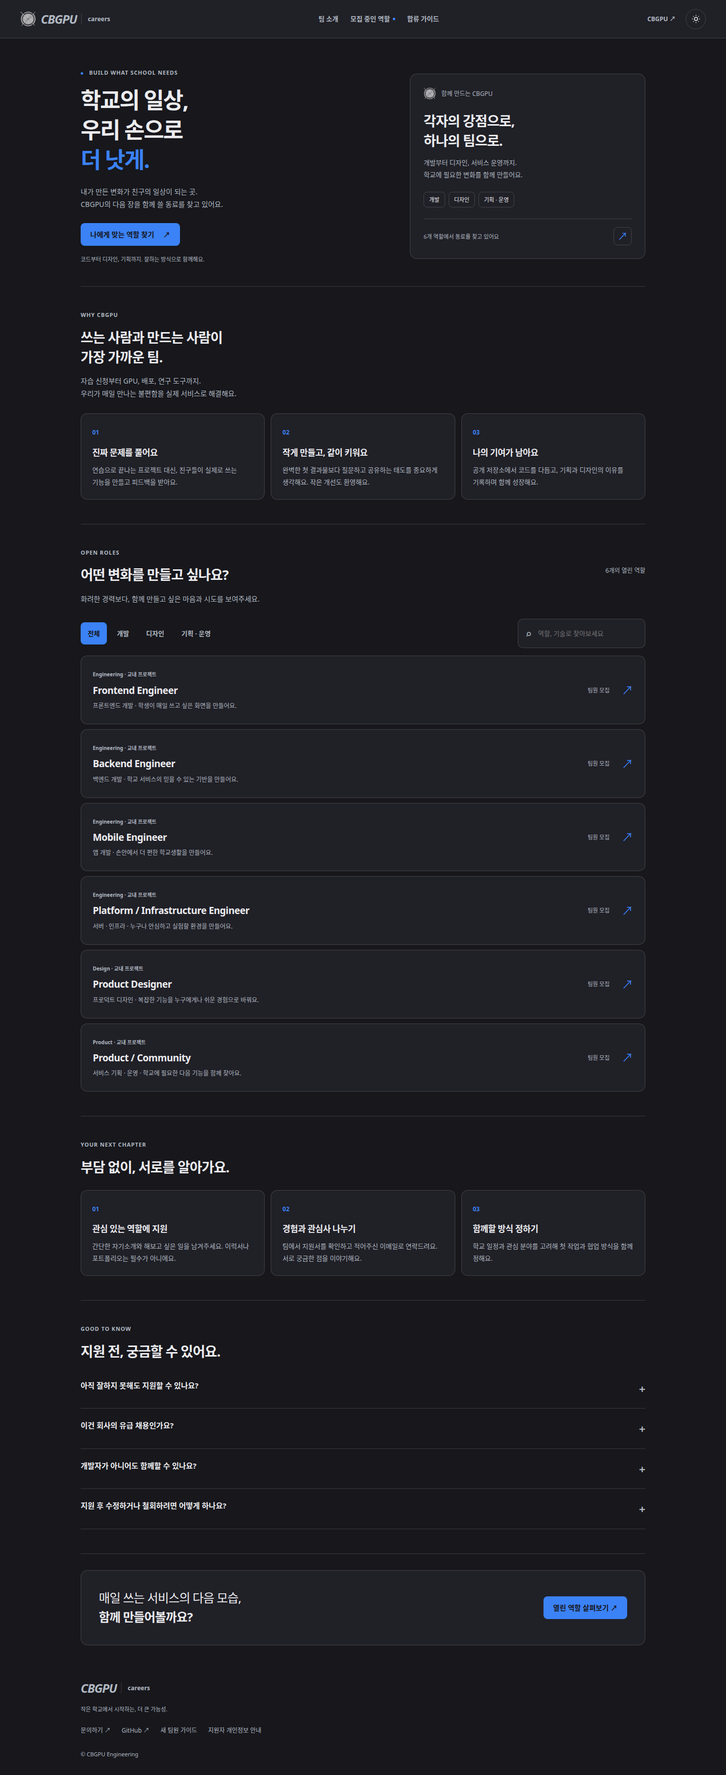
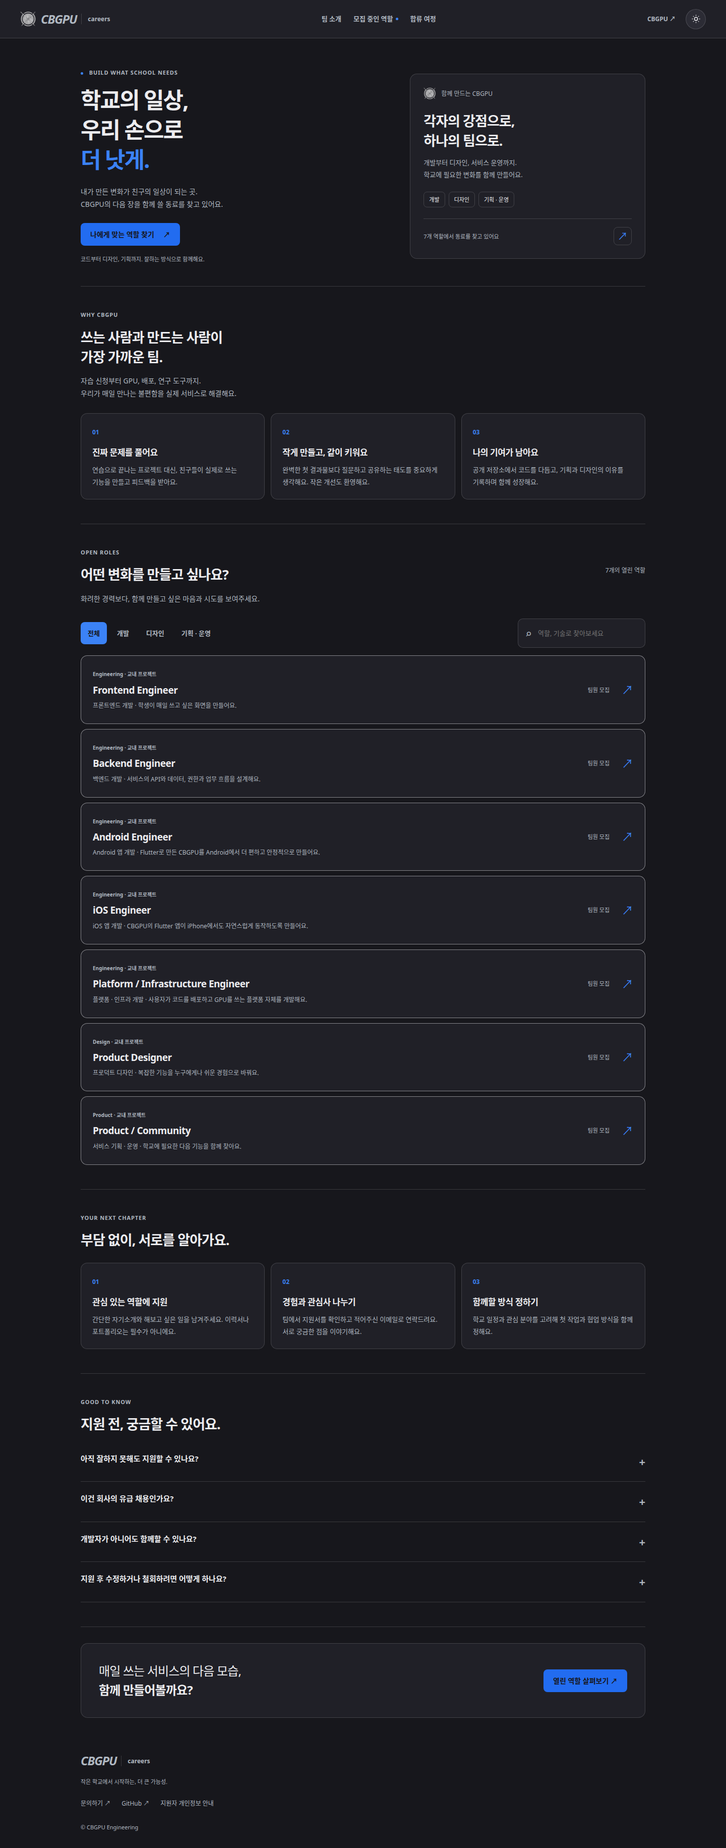
Recruit Android and iOS separately and clarify backend and platform roles

diff --git a/careers/public/index.html b/careers/public/index.html
@@ -1,1 +1,1 @@
-<!doctype html><html lang="ko"><head><meta charset="utf-8"><meta name="viewport" content="width=device-width, initial-scale=1"><title>CBGPU Careers — 학교의 일상을 바꾸는 팀</title><meta name="description" content="CBGPU를 함께 만들 동료를 찾습니다. 프론트엔드, 백엔드, 앱, 인프라, 디자인, 기획·운영 분야별 팀 모집 공고와 지원."><meta name="theme-color" content="#ffffff"><meta property="og:title" content="학교의 일상을 바꾸는 팀, CBGPU"><meta property="og:description" content="내가 만든 변화가 친구의 일상이 되는 곳. CBGPU 팀에 합류하세요."><meta property="og:type" content="website"><meta property="og:url" content="https://careers.cbgpu.com"><link rel="icon" href="/logo.png"><script src="/theme.js"></script><link rel="stylesheet" href="/style.css"><script defer src="/app.js"></script></head><body><a class="skip" href="#main">본문으로 건너뛰기</a><header><a class="brand" href="/" aria-label="CBGPU Careers 홈"><img src="/logo.png" alt=""><strong>CBGPU</strong><span>careers</span></a><nav aria-label="주 메뉴"><a href="/#team">팀 소개</a><a href="/#positions">모집 중인 역할 <span class="nav-dot"></span></a><a href="/#journey">합류 여정</a></nav><div class="header-actions"><a class="header-link" href="https://cbgpu.com">CBGPU ↗</a><button class="theme-toggle" type="button" aria-label="화면 테마 전환" title="화면 테마 전환"></button></div></header><main id="main" tabindex="-1"><div id="view"><section class="hero"><div class="hero-copy"><p class="eyebrow"><span class="live-dot"></span> BUILD WHAT SCHOOL NEEDS</p><h1>학교의 일상,<br>우리 손으로<br><span>더 낫게.</span></h1><p class="hero-desc">내가 만든 변화가 친구의 일상이 되는 곳.<br>CBGPU의 다음 장을 함께 쓸 동료를 찾고 있어요.</p><a class="primary" href="#positions">나에게 맞는 역할 찾기 <span>↗</span></a><p class="hero-note">코드부터 디자인, 기획까지. 잘하는 방식으로 함께해요.</p></div><aside class="hero-summary" aria-label="CBGPU 팀 모집 안내"><div class="summary-brand"><img src="/logo.png" alt=""><span>함께 만드는 CBGPU</span></div><h2>각자의 강점으로,<br>하나의 팀으로.</h2><p>개발부터 디자인, 서비스 운영까지.<br>학교에 필요한 변화를 함께 만들어요.</p><div class="summary-areas"><span>개발</span><span>디자인</span><span>기획 · 운영</span></div><div class="summary-bottom"><span>6개 역할에서 동료를 찾고 있어요</span><a href="#positions" aria-label="모집 역할 살펴보기">↗</a></div></aside></section><section class="intro section" id="team"><p class="eyebrow">WHY CBGPU</p><h2>쓰는 사람과 만드는 사람이<br>가장 가까운 팀.</h2><p class="section-desc">자습 신청부터 GPU, 배포, 연구 도구까지.<br>우리가 매일 만나는 불편함을 실제 서비스로 해결해요.</p><div class="values"><article><span>01</span><h3>진짜 문제를 풀어요</h3><p>연습으로 끝나는 프로젝트 대신, 친구들이 실제로 쓰는 기능을 만들고 피드백을 받아요.</p></article><article><span>02</span><h3>작게 만들고, 같이 키워요</h3><p>완벽한 첫 결과물보다 질문하고 공유하는 태도를 중요하게 생각해요. 작은 개선도 환영해요.</p></article><article><span>03</span><h3>나의 기여가 남아요</h3><p>공개 저장소에서 코드를 다듬고, 기획과 디자인의 이유를 기록하며 함께 성장해요.</p></article></div></section><section class="positions section" id="positions"><div class="section-heading"><div><p class="eyebrow">OPEN ROLES</p><h2>어떤 변화를 만들고 싶나요?</h2></div><span id="count" class="count"></span></div><p class="section-desc">화려한 경력보다, 함께 만들고 싶은 마음과 시도를 보여주세요.</p><div class="tools"><div class="filters" role="group" aria-label="분야 선택"><button class="filter active" data-category="all" aria-pressed="true">전체</button><button class="filter" data-category="Engineering" aria-pressed="false">개발</button><button class="filter" data-category="Design" aria-pressed="false">디자인</button><button class="filter" data-category="Product" aria-pressed="false">기획 · 운영</button></div><label class="search"><span>⌕</span><input id="search" type="search" aria-label="역할 또는 기술 검색" placeholder="역할, 기술로 찾아보세요"></label></div><div id="roles" aria-live="polite"><p>모집 공고를 불러오고 있어요.</p></div></section><section class="journey section" id="journey"><p class="eyebrow">YOUR NEXT CHAPTER</p><h2>부담 없이, 서로를 알아가요.</h2><div class="steps"><article><span>01</span><h3>관심 있는 역할에 지원</h3><p>간단한 자기소개와 해보고 싶은 일을 남겨주세요. 이력서나 포트폴리오는 필수가 아니에요.</p></article><article><span>02</span><h3>경험과 관심사 나누기</h3><p>팀에서 지원서를 확인하고 적어주신 이메일로 연락드려요. 서로 궁금한 점을 이야기해요.</p></article><article><span>03</span><h3>함께할 방식 정하기</h3><p>학교 일정과 관심 분야를 고려해 첫 작업과 협업 방식을 함께 정해요.</p></article></div></section><section class="faq section"><p class="eyebrow">GOOD TO KNOW</p><h2>지원 전, 궁금할 수 있어요.</h2><details><summary>아직 잘하지 못해도 지원할 수 있나요?</summary><p>네. 필요한 기초를 배우면서 작은 결과물을 만들어본 경험도 좋아요. 지금 할 수 있는 것과 앞으로 배우고 싶은 것을 솔직하게 적어주세요.</p></details><details><summary>이건 회사의 유급 채용인가요?</summary><p>이 페이지는 교내 CBGPU 프로젝트 팀원을 모집하는 공간이에요. 고용·급여나 특정 활동 혜택을 약속하는 공고가 아니며, 활동 방식과 일정은 합류 전에 함께 확인해요.</p></details><details><summary>개발자가 아니어도 함께할 수 있나요?</summary><p>물론이에요. 디자인, 서비스 기획, 문서화, 사용자 테스트와 운영도 서비스를 만드는 중요한 일이에요.</p></details><details><summary>지원 후 수정하거나 철회하려면 어떻게 하나요?</summary><p>접수 번호와 함께 <a href="mailto:info@cbgpu.com">info@cbgpu.com</a>으로 알려주세요. 지원서는 모집 검토와 연락 목적으로만 이용하고 접수 90일 후 자동 삭제해요.</p></details></section><section class="closing"><p>매일 쓰는 서비스의 다음 모습,<br><strong>함께 만들어볼까요?</strong></p><a class="primary" href="#positions">열린 역할 살펴보기 ↗</a></section></div></main><footer><a class="brand" href="/"><strong>CBGPU</strong><span>careers</span></a><p>작은 학교에서 시작하는, 더 큰 가능성.</p><div><a href="mailto:info@cbgpu.com">문의하기 ↗</a><a href="https://github.com/CBGPU-Engineering">GitHub ↗</a><a href="/privacy" data-route>지원자 개인정보 안내</a></div><small>© CBGPU Engineering</small></footer></body></html>
+<!doctype html><html lang="ko"><head><meta charset="utf-8"><meta name="viewport" content="width=device-width, initial-scale=1"><title>CBGPU Careers — 학교의 일상을 바꾸는 팀</title><meta name="description" content="CBGPU를 함께 만들 동료를 찾습니다. 프론트엔드, 백엔드, Android, iOS, 플랫폼·인프라, 디자인, 기획·운영 분야별 팀 모집 공고와 지원."><meta name="theme-color" content="#ffffff"><meta property="og:title" content="학교의 일상을 바꾸는 팀, CBGPU"><meta property="og:description" content="내가 만든 변화가 친구의 일상이 되는 곳. CBGPU 팀에 합류하세요."><meta property="og:type" content="website"><meta property="og:url" content="https://careers.cbgpu.com"><link rel="icon" href="/logo.png"><script src="/theme.js"></script><link rel="stylesheet" href="/style.css"><script defer src="/app.js"></script></head><body><a class="skip" href="#main">본문으로 건너뛰기</a><header><a class="brand" href="/" aria-label="CBGPU Careers 홈"><img src="/logo.png" alt=""><strong>CBGPU</strong><span>careers</span></a><nav aria-label="주 메뉴"><a href="/#team">팀 소개</a><a href="/#positions">모집 중인 역할 <span class="nav-dot"></span></a><a href="/#journey">합류 여정</a></nav><div class="header-actions"><a class="header-link" href="https://cbgpu.com">CBGPU ↗</a><button class="theme-toggle" type="button" aria-label="화면 테마 전환" title="화면 테마 전환"></button></div></header><main id="main" tabindex="-1"><div id="view"><section class="hero"><div class="hero-copy"><p class="eyebrow"><span class="live-dot"></span> BUILD WHAT SCHOOL NEEDS</p><h1>학교의 일상,<br>우리 손으로<br><span>더 낫게.</span></h1><p class="hero-desc">내가 만든 변화가 친구의 일상이 되는 곳.<br>CBGPU의 다음 장을 함께 쓸 동료를 찾고 있어요.</p><a class="primary" href="#positions">나에게 맞는 역할 찾기 <span>↗</span></a><p class="hero-note">코드부터 디자인, 기획까지. 잘하는 방식으로 함께해요.</p></div><aside class="hero-summary" aria-label="CBGPU 팀 모집 안내"><div class="summary-brand"><img src="/logo.png" alt=""><span>함께 만드는 CBGPU</span></div><h2>각자의 강점으로,<br>하나의 팀으로.</h2><p>개발부터 디자인, 서비스 운영까지.<br>학교에 필요한 변화를 함께 만들어요.</p><div class="summary-areas"><span>개발</span><span>디자인</span><span>기획 · 운영</span></div><div class="summary-bottom"><span>7개 역할에서 동료를 찾고 있어요</span><a href="#positions" aria-label="모집 역할 살펴보기">↗</a></div></aside></section><section class="intro section" id="team"><p class="eyebrow">WHY CBGPU</p><h2>쓰는 사람과 만드는 사람이<br>가장 가까운 팀.</h2><p class="section-desc">자습 신청부터 GPU, 배포, 연구 도구까지.<br>우리가 매일 만나는 불편함을 실제 서비스로 해결해요.</p><div class="values"><article><span>01</span><h3>진짜 문제를 풀어요</h3><p>연습으로 끝나는 프로젝트 대신, 친구들이 실제로 쓰는 기능을 만들고 피드백을 받아요.</p></article><article><span>02</span><h3>작게 만들고, 같이 키워요</h3><p>완벽한 첫 결과물보다 질문하고 공유하는 태도를 중요하게 생각해요. 작은 개선도 환영해요.</p></article><article><span>03</span><h3>나의 기여가 남아요</h3><p>공개 저장소에서 코드를 다듬고, 기획과 디자인의 이유를 기록하며 함께 성장해요.</p></article></div></section><section class="positions section" id="positions"><div class="section-heading"><div><p class="eyebrow">OPEN ROLES</p><h2>어떤 변화를 만들고 싶나요?</h2></div><span id="count" class="count"></span></div><p class="section-desc">화려한 경력보다, 함께 만들고 싶은 마음과 시도를 보여주세요.</p><div class="tools"><div class="filters" role="group" aria-label="분야 선택"><button class="filter active" data-category="all" aria-pressed="true">전체</button><button class="filter" data-category="Engineering" aria-pressed="false">개발</button><button class="filter" data-category="Design" aria-pressed="false">디자인</button><button class="filter" data-category="Product" aria-pressed="false">기획 · 운영</button></div><label class="search"><span>⌕</span><input id="search" type="search" aria-label="역할 또는 기술 검색" placeholder="역할, 기술로 찾아보세요"></label></div><div id="roles" aria-live="polite"><p>모집 공고를 불러오고 있어요.</p></div></section><section class="journey section" id="journey"><p class="eyebrow">YOUR NEXT CHAPTER</p><h2>부담 없이, 서로를 알아가요.</h2><div class="steps"><article><span>01</span><h3>관심 있는 역할에 지원</h3><p>간단한 자기소개와 해보고 싶은 일을 남겨주세요. 이력서나 포트폴리오는 필수가 아니에요.</p></article><article><span>02</span><h3>경험과 관심사 나누기</h3><p>팀에서 지원서를 확인하고 적어주신 이메일로 연락드려요. 서로 궁금한 점을 이야기해요.</p></article><article><span>03</span><h3>함께할 방식 정하기</h3><p>학교 일정과 관심 분야를 고려해 첫 작업과 협업 방식을 함께 정해요.</p></article></div></section><section class="faq section"><p class="eyebrow">GOOD TO KNOW</p><h2>지원 전, 궁금할 수 있어요.</h2><details><summary>아직 잘하지 못해도 지원할 수 있나요?</summary><p>네. 필요한 기초를 배우면서 작은 결과물을 만들어본 경험도 좋아요. 지금 할 수 있는 것과 앞으로 배우고 싶은 것을 솔직하게 적어주세요.</p></details><details><summary>이건 회사의 유급 채용인가요?</summary><p>이 페이지는 교내 CBGPU 프로젝트 팀원을 모집하는 공간이에요. 고용·급여나 특정 활동 혜택을 약속하는 공고가 아니며, 활동 방식과 일정은 합류 전에 함께 확인해요.</p></details><details><summary>개발자가 아니어도 함께할 수 있나요?</summary><p>물론이에요. 디자인, 서비스 기획, 문서화, 사용자 테스트와 운영도 서비스를 만드는 중요한 일이에요.</p></details><details><summary>지원 후 수정하거나 철회하려면 어떻게 하나요?</summary><p>접수 번호와 함께 <a href="mailto:info@cbgpu.com">info@cbgpu.com</a>으로 알려주세요. 지원서는 모집 검토와 연락 목적으로만 이용하고 접수 90일 후 자동 삭제해요.</p></details></section><section class="closing"><p>매일 쓰는 서비스의 다음 모습,<br><strong>함께 만들어볼까요?</strong></p><a class="primary" href="#positions">열린 역할 살펴보기 ↗</a></section></div></main><footer><a class="brand" href="/"><strong>CBGPU</strong><span>careers</span></a><p>작은 학교에서 시작하는, 더 큰 가능성.</p><div><a href="mailto:info@cbgpu.com">문의하기 ↗</a><a href="https://github.com/CBGPU-Engineering">GitHub ↗</a><a href="/privacy" data-route>지원자 개인정보 안내</a></div><small>© CBGPU Engineering</small></footer></body></html>

diff --git a/careers/public/onboarding.html b/careers/public/onboarding.html
@@ -1,5 +1,5 @@
 <!DOCTYPE html><html lang="ko"><head><meta name="robots" content="noindex, nofollow"><meta charset="utf-8"><meta name="viewport" content="width=device-width, initial-scale=1"><title>새 팀원 합류 가이드 | CBGPU Careers</title><meta name="description" content="CBGPU를 함께 만들 동료를 찾습니다. 프론트엔드, 백엔드, 앱, 인프라, 디자인, 기획·운영 분야별 팀 모집 공고와 지원."><meta name="theme-color" content="#ffffff"><meta property="og:title" content="학교의 일상을 바꾸는 팀, CBGPU"><meta property="og:description" content="내가 만든 변화가 친구의 일상이 되는 곳. CBGPU 팀에 합류하세요."><meta property="og:type" content="website"><meta property="og:url" content="https://careers.cbgpu.com"><link rel="icon" href="/logo.png"><script src="/theme.js"></script><link rel="stylesheet" href="/style.css"><script defer src="/onboarding.js"></script></head><body><a class="skip" href="#main">본문으로 건너뛰기</a><header><a class="brand" href="/" aria-label="CBGPU Careers 홈"><img src="/logo.png" alt=""><strong>CBGPU</strong><span>careers</span></a><nav aria-label="주 메뉴"><a href="/#team">팀 소개</a><a href="/#positions">모집 중인 역할 <span class="nav-dot"></span></a><a href="/#journey">합류 여정</a></nav><div class="header-actions"><a class="header-link" href="https://cbgpu.com">CBGPU ↗</a><button class="theme-toggle" type="button" aria-label="화면 테마 전환" title="화면 테마 전환"></button></div></header><main id="main" tabindex="-1"><div id="view"><section class="detail"><a class="back" data-route="" href="/">← 모집 페이지</a><div class="detail-layout"><article><p class="eyebrow">WELCOME TO THE TEAM</p><h1>CBGPU에서의 첫날,<br>여기서 시작해요.</h1><p class="lead">합류 안내를 받은 새 팀원을 위한 시작 가이드예요.</p><p class="note">지원서 제출만으로 합류가 확정되는 것은 아니에요. 담당자에게 합류 안내를 받았다면 아래 순서대로 진행해주세요. Slack 초대 링크는 만료되거나 운영자가 변경할 수 있어요. 접속되지 않으면 info@cbgpu.com으로 알려주세요.</p><h2>01. Slack 워크스페이스에 참여해요</h2><p>아래 초대 링크를 열고 사용할 이메일로 가입하거나 로그인하세요. 워크스페이스 이름이 <strong>CBGPU Engineering</strong>인지 확인하고, 팀원이 알아볼 수 있도록 표시 이름을 설정해주세요.</p><a class="primary" href="https://join.slack.com/t/cbgpuengineering/shared_invite/zt-4fk9n8tkx-F1TSN9wCapb5FmH4ISGpdg" target="_blank" rel="noopener noreferrer">Slack 참여하기 ↗</a><h2>02. 자기소개와 GitHub ID를 올려요</h2><p>Slack에 들어간 뒤 기본으로 참여된 대화 채널에 아래 양식으로 메시지를 올려주세요. 채널이 여러 개라면 담당자가 안내한 자기소개 채널을 이용해주세요.</p><pre class="welcome-template">안녕하세요! CBGPU에 합류한 [이름]입니다.
-담당/관심 분야: [프론트엔드 / 백엔드 / 앱 / 인프라 / 디자인 / 기획·운영]
+담당/관심 분야: [프론트엔드 / 백엔드 / Android / iOS / 플랫폼·인프라 / 디자인 / 기획·운영]
 GitHub ID: [아이디]
 GitHub 프로필: https://github.com/[아이디]
 함께 해보고 싶은 일: [한 줄 소개]</pre><button type="button" class="copy-button" id="copy-intro">자기소개 양식 복사</button><p class="note"><strong>GitHub ID는 꼭 Slack에 남겨주세요.</strong> 이메일이나 이름만으로는 저장소 초대를 정확히 보낼 수 없어요. GitHub 계정이 없다면 먼저 github.com에서 계정을 만든 뒤 공유해주세요. 비밀번호, 인증 코드, API 키는 올리지 마세요.</p><h2>03. Jira에 접속해요</h2><p>아래 링크에서 Atlassian 계정으로 로그인하고 CBGPU 사이트에 접속하세요. Slack과 같은 이메일을 쓰면 팀에서 확인하기 편해요. 프로젝트가 보이지 않거나 접근 권한을 요청하는 화면이 나오면, Slack에 가입한 이메일과 화면에 나온 메시지를 알려주세요. 관리자 초대가 필요할 수 있어요.</p><a class="primary" href="https://cbgpu.atlassian.net/?continue=https%3A%2F%2Fcbgpu.atlassian.net%2Fwelcome%2Fsoftware%3FprojectId%3D10000&amp;atlOrigin=eyJpIjoiZTNmMTVjMDAwNjNlNGRiODkwZTNjNmRhNDQ4MTMzMjkiLCJwIjoiamlyYS1zb2Z0d2FyZSJ9" target="_blank" rel="noopener noreferrer">CBGPU Jira 열기 ↗</a><h2>04. GitHub 초대를 확인해요</h2><p>담당자가 Slack에 올린 ID를 확인하고 GitHub 조직·저장소에 초대해요. GitHub 알림과 이메일을 확인해 초대를 수락해주세요. Slack에 ID를 올리는 것만으로 저장소 권한이 자동 부여되지는 않아요.</p><a class="text-link" href="https://github.com/CBGPU-Engineering" target="_blank" rel="noopener noreferrer">CBGPU Engineering 조직 보기 ↗</a><h2>05. 첫 작업을 함께 정해요</h2><p>담당자와 활동 가능 시간과 관심 분야를 나눈 뒤 Jira에서 첫 작업을 확인하세요. 작업을 시작할 때 상태를 갱신하고, 막힌 부분은 Slack에 공유해주세요. 코드 작업은 해당 저장소의 README와 CONTRIBUTING을 읽고 브랜치와 Pull Request로 진행해요.</p><p class="note">새 팀원에게 운영 서버 비밀번호나 개인 인증 정보를 공유하지 않아요. 권한이 필요하면 담당자에게 요청하고, 운영 데이터 변경·배포는 먼저 팀과 확인해주세요.</p></article><aside class="sidebar"><h3>합류 체크리스트</h3><div class="onboarding-checks"><label><input type="checkbox"> Slack 참여 완료</label><label><input type="checkbox"> 자기소개 + GitHub ID 게시</label><label><input type="checkbox"> Jira 접속 확인</label><label><input type="checkbox"> GitHub 초대 수락</label><label><input type="checkbox"> 첫 작업 확인</label></div><p class="lead">체크 상태는 저장하지 않아요.</p><a class="text-link" href="mailto:info@cbgpu.com">도움이 필요해요 ↗</a></aside></div></section></div></main><footer><a class="brand" href="/"><strong>CBGPU</strong><span>careers</span></a><p>작은 학교에서 시작하는, 더 큰 가능성.</p><div><a href="mailto:info@cbgpu.com">문의하기 ↗</a><a href="https://github.com/CBGPU-Engineering">GitHub ↗</a><a href="/privacy" data-route="">지원자 개인정보 안내</a></div><small>© CBGPU Engineering</small></footer></body></html>

diff --git a/careers/server.py b/careers/server.py
@@ -71,6 +71,8 @@ class Handler(BaseHTTPRequestHandler):
   self.end_headers();self.wfile.write(body)
  def do_GET(self):
   path=urlsplit(self.path).path
+  if path in ['/roles/mobile','/apply/mobile']:
+   return self.send(302,b'',extra={'Location':'/#positions'})
   if path=='/health':return self.send(200,{'status':'ok'})
   if path=='/api/roles':return self.send(200,ROLES)
   if path=='/api/form':return self.send(200,{'token':token()})
@@ -122,7 +124,7 @@ def process_outbox():
   now=int(time.time());c.execute('DELETE FROM applications WHERE created<?',(now-90*86400,));c.execute('DELETE FROM requests WHERE created<?',(now-86400,));c.commit()
   rows=c.execute('SELECT id,role FROM applications WHERE notified=0 ORDER BY created LIMIT 10').fetchall() if key else []
  for row in rows:
-  role=next(r for r in ROLES if r['id']==row['role'])
+  role=next((r for r in ROLES if r['id']==row['role']),{'name':'앱 개발 (이전 모집)' if row['role']=='mobile' else '이전 모집 분야'})
   body={'from':'CBGPU Careers <info@cbgpu.com>','to':['info@cbgpu.com'],'subject':f"[CBGPU 지원 접수] {role['name']} · {row['id']}",'html':f"<div style='font-family:Arial,sans-serif;max-width:560px;margin:auto;padding:32px'><img src='https://careers.cbgpu.com/logo.png' width='40' alt='CBGPU'><h1>새로운 동료의 지원서가 도착했어요.</h1><p>{role['name']}</p><p>접수 번호: <b>{row['id']}</b></p><p>개인정보 보호를 위해 지원 내용은 메일에 포함하지 않았어요. 개발자 터미널에서 careers 관리 명령으로 확인해주세요.</p><a href='https://developers.cbgpu.com' style='background:#3182f6;color:white;padding:14px 20px;display:inline-block;border-radius:10px;text-decoration:none'>개발자 페이지 열기</a></div>"}
   req=urllib.request.Request('https://api.resend.com/emails',data=json.dumps(body).encode(),headers={'Authorization':'Bearer '+key,'Content-Type':'application/json','Idempotency-Key':'careers-'+row['id']},method='POST')
   try:

diff --git a/careers/README.md b/careers/README.md
@@ -1,7 +1,7 @@
 # CBGPU Careers
 
 Recruitment and team onboarding for CBGPU at **https://careers.cbgpu.com**.
-Six role descriptions, category/search filters, application forms, private SQLite
+Seven role descriptions, category/search filters, application forms, private SQLite
 storage, and a Slack / Jira / GitHub onboarding guide. This recruits school project
 contributors; it does not promise employment, pay, acceptance, or a response deadline.
 
@@ -110,3 +110,17 @@ shared between subdomains. No separate font service is needed.
 The onboarding guide is distributed directly to accepted applicants. It has no
 public navigation buttons, is excluded from the sitemap and includes a noindex
 directive. Direct links remain accessible; this is not an authentication gate.
+
+## Recruitment roles
+
+Android and iOS are independent application tracks; both contribute to the shared
+Flutter/Dart codebase. iOS includes Xcode/device testing, platform integration and
+TestFlight/App Store preparation; Swift experience is preferred, not mandatory.
+Backend owns service APIs, authorization, data models and application logic.
+Platform / infrastructure owns the deployment product, containers, GPU resource
+management, project domains, logs and operations. Contributors may collaborate
+across these roles without collapsing the application tracks.
+
+Old `/roles/mobile` and `/apply/mobile` links return to the role list so applicants
+can choose a platform. Existing `mobile` applications retain their original role;
+notification delivery still supports that historical label.

diff --git a/careers/ONBOARDING.md b/careers/ONBOARDING.md
@@ -17,7 +17,7 @@ invite the correct account.** Create a GitHub account first if needed.
 
 ```text
 Hi, I'm [name] and I'm joining CBGPU!
-Role / interests: [frontend / backend / mobile / infrastructure / design / product]
+Role / interests: [frontend / backend / Android / iOS / platform & infrastructure / design / product]
 GitHub ID: [username]
 GitHub profile: https://github.com/[username]
 I'd like to work on: [one sentence]
